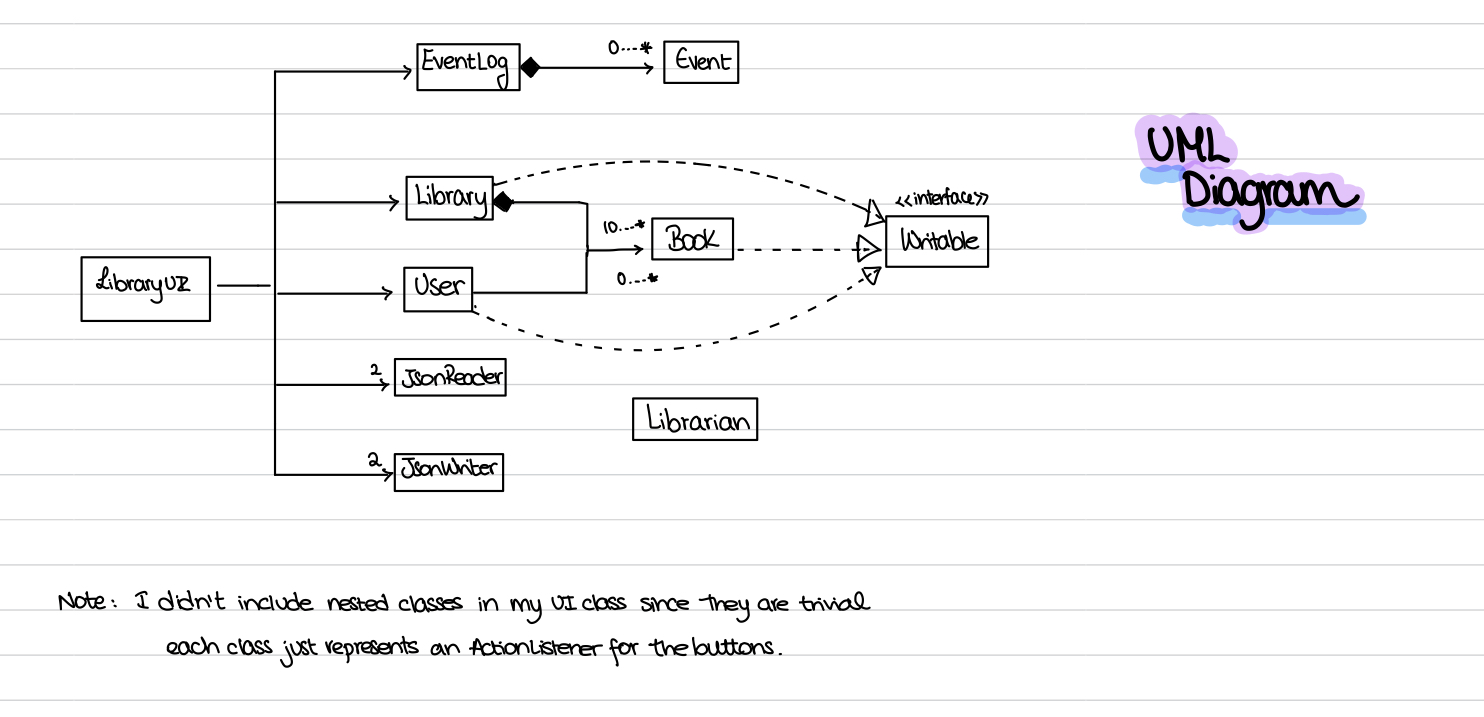
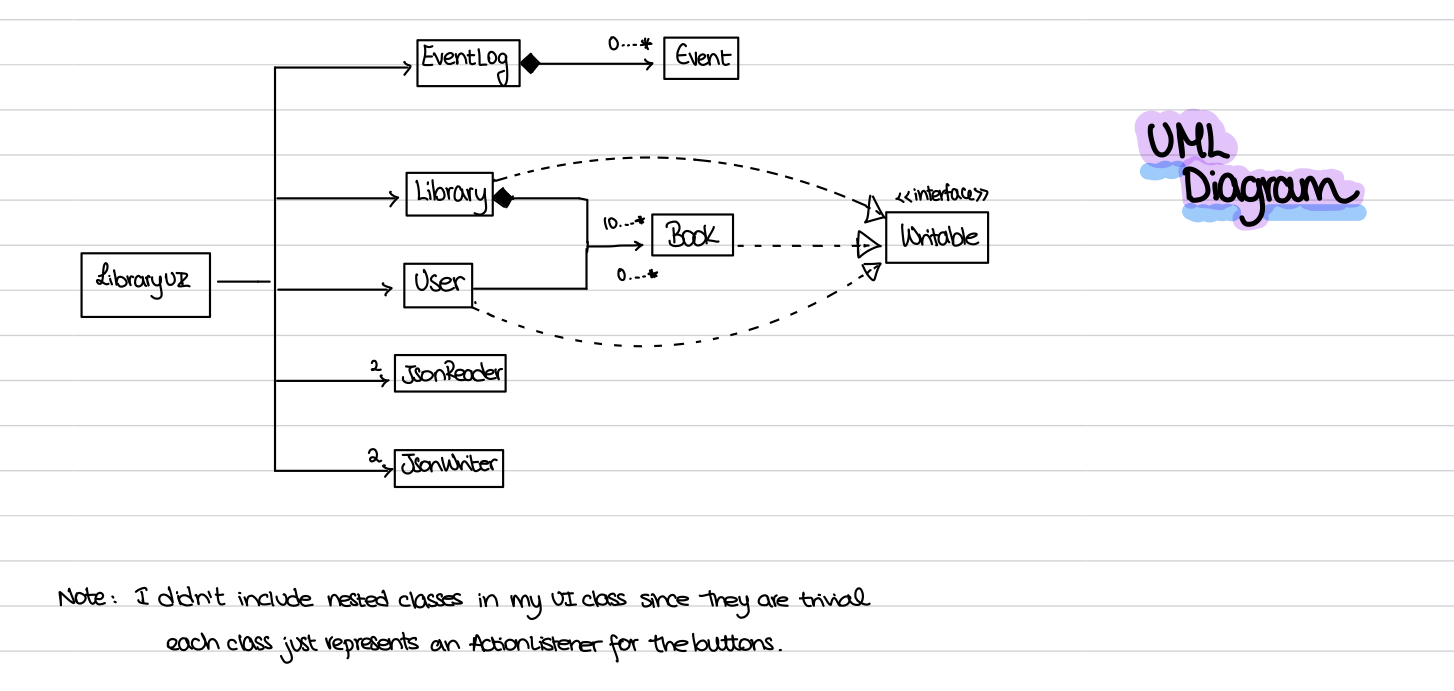
phase 4 task 4

diff --git a/src/main/model/Library.java b/src/main/model/Library.java
@@ -83,7 +83,7 @@ public class Library implements Writable {
                 booksByGenre.add(book.getBookName());
             }
         }
-        EventLog.getInstance().logEvent(new Event("Searched for genre " + genre));
+        EventLog.getInstance().logEvent(new Event("Searched for genre: " + genre));
         return booksByGenre;
     }
 

diff --git a/README.md b/README.md
@@ -47,9 +47,20 @@ Thu Nov 24 09:38:23 PST 2022
 <br> Returned book: Harry Potter
 <br> Thu Nov 24 09:38:49 PST 2022
 <br> Added book: November 9 
+<br> Note: Event for viewing the books in the library is implemented entirely in GUI, not in model packages therefore it is not in the logged events. 
 
 # Phase 4: Task 3 UML Diagram
+Attached in the root folder of the project
+# Phase 4: Task 4 Refactoring
+<strong> If I had more time I would do the following refactoring to my code: </strong>
 
-# Phase 4: Task 4 Refactoring:
-- If I had more time I would do the following refactoring to my code:
-- Since there are repetitive methods in my UI class, all using the dialog boxes, I would refactor
+- My original plan was to include more actions for a librarian to know more information about users and manage the list of books in the library, 
+so I could make a new abstract class called User and have both Librarian and StudentUser extend it since they will probably have a lot of similar behavior.
+Note: Now, the librarian class is redundant (since it doesn't have any implementations) and can be removed both from my classes and UML Diagram, but I left it there as a possibility of further implementation and development of the project. 
+- Due to the presence of repetitive code in the UI class that hides the panel in all methods, I can extract this method into one method and replace the repetitive code with a single call to this method,
+  (which improves coupling) or another solution to this is making it a JDesktopPane instead of JFrame to include other Java Swing components in it and they can close by themselves without the need for a method to to so.
+- In expanding my project to include more features in the user interface, I would use the composite design pattern to design the frame and have a Component class
+and a composite class where I can add panels and other children including buttons, internal frames, dialog boxes and child panels to it, in order to improve cohesion. This can also remove the presence
+of nested classes in the UI which is making the class quite long. 
+- In order for my design to follow the single responsibility principle, I can move some of the methods that have to do with adding books to the library to the librarian class for less coupling and 
+the library class can then only be responsible for the methods directly related to it like searching for books by genres and titles.
